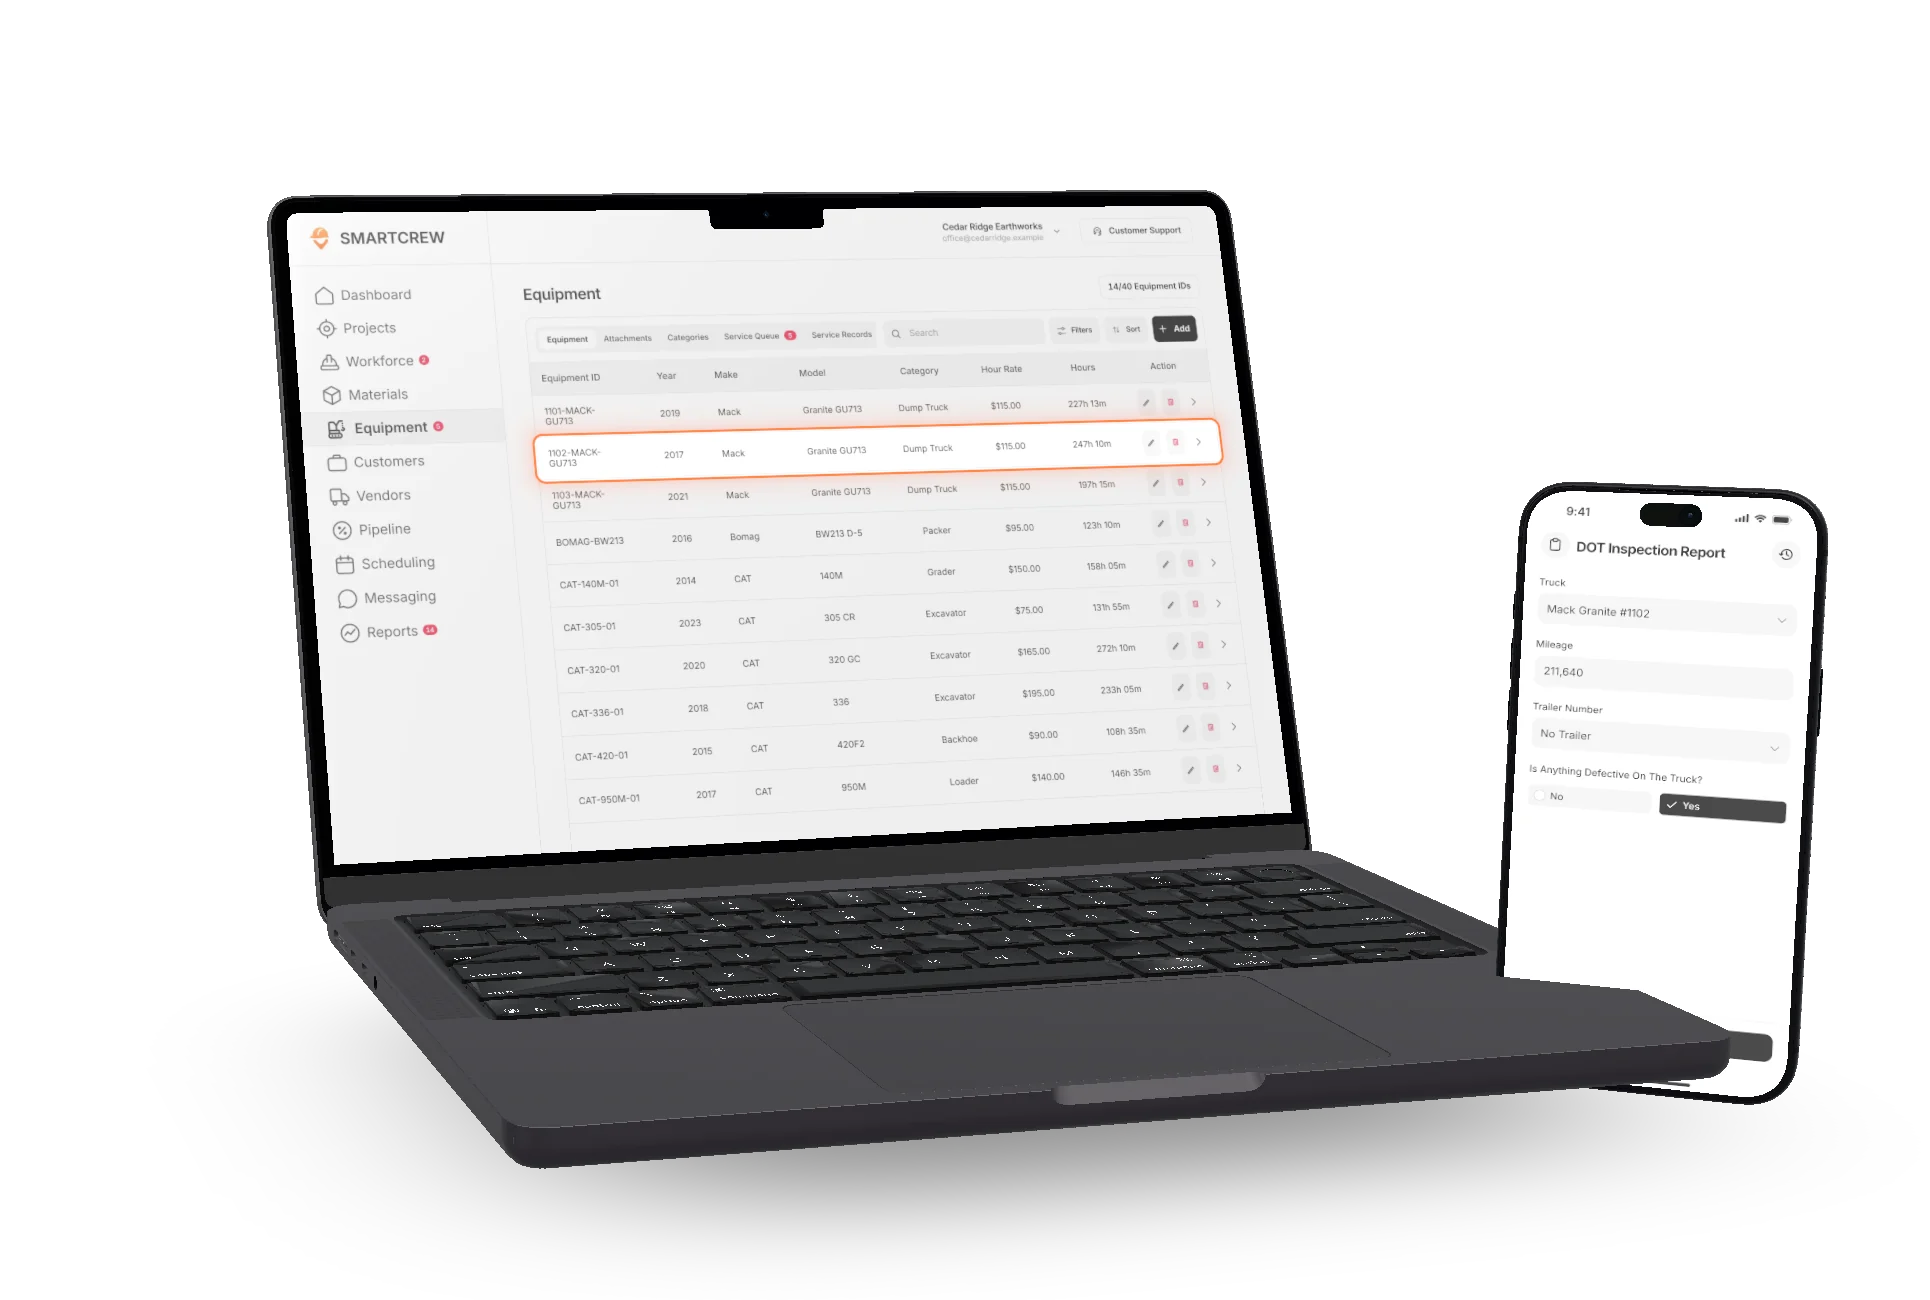
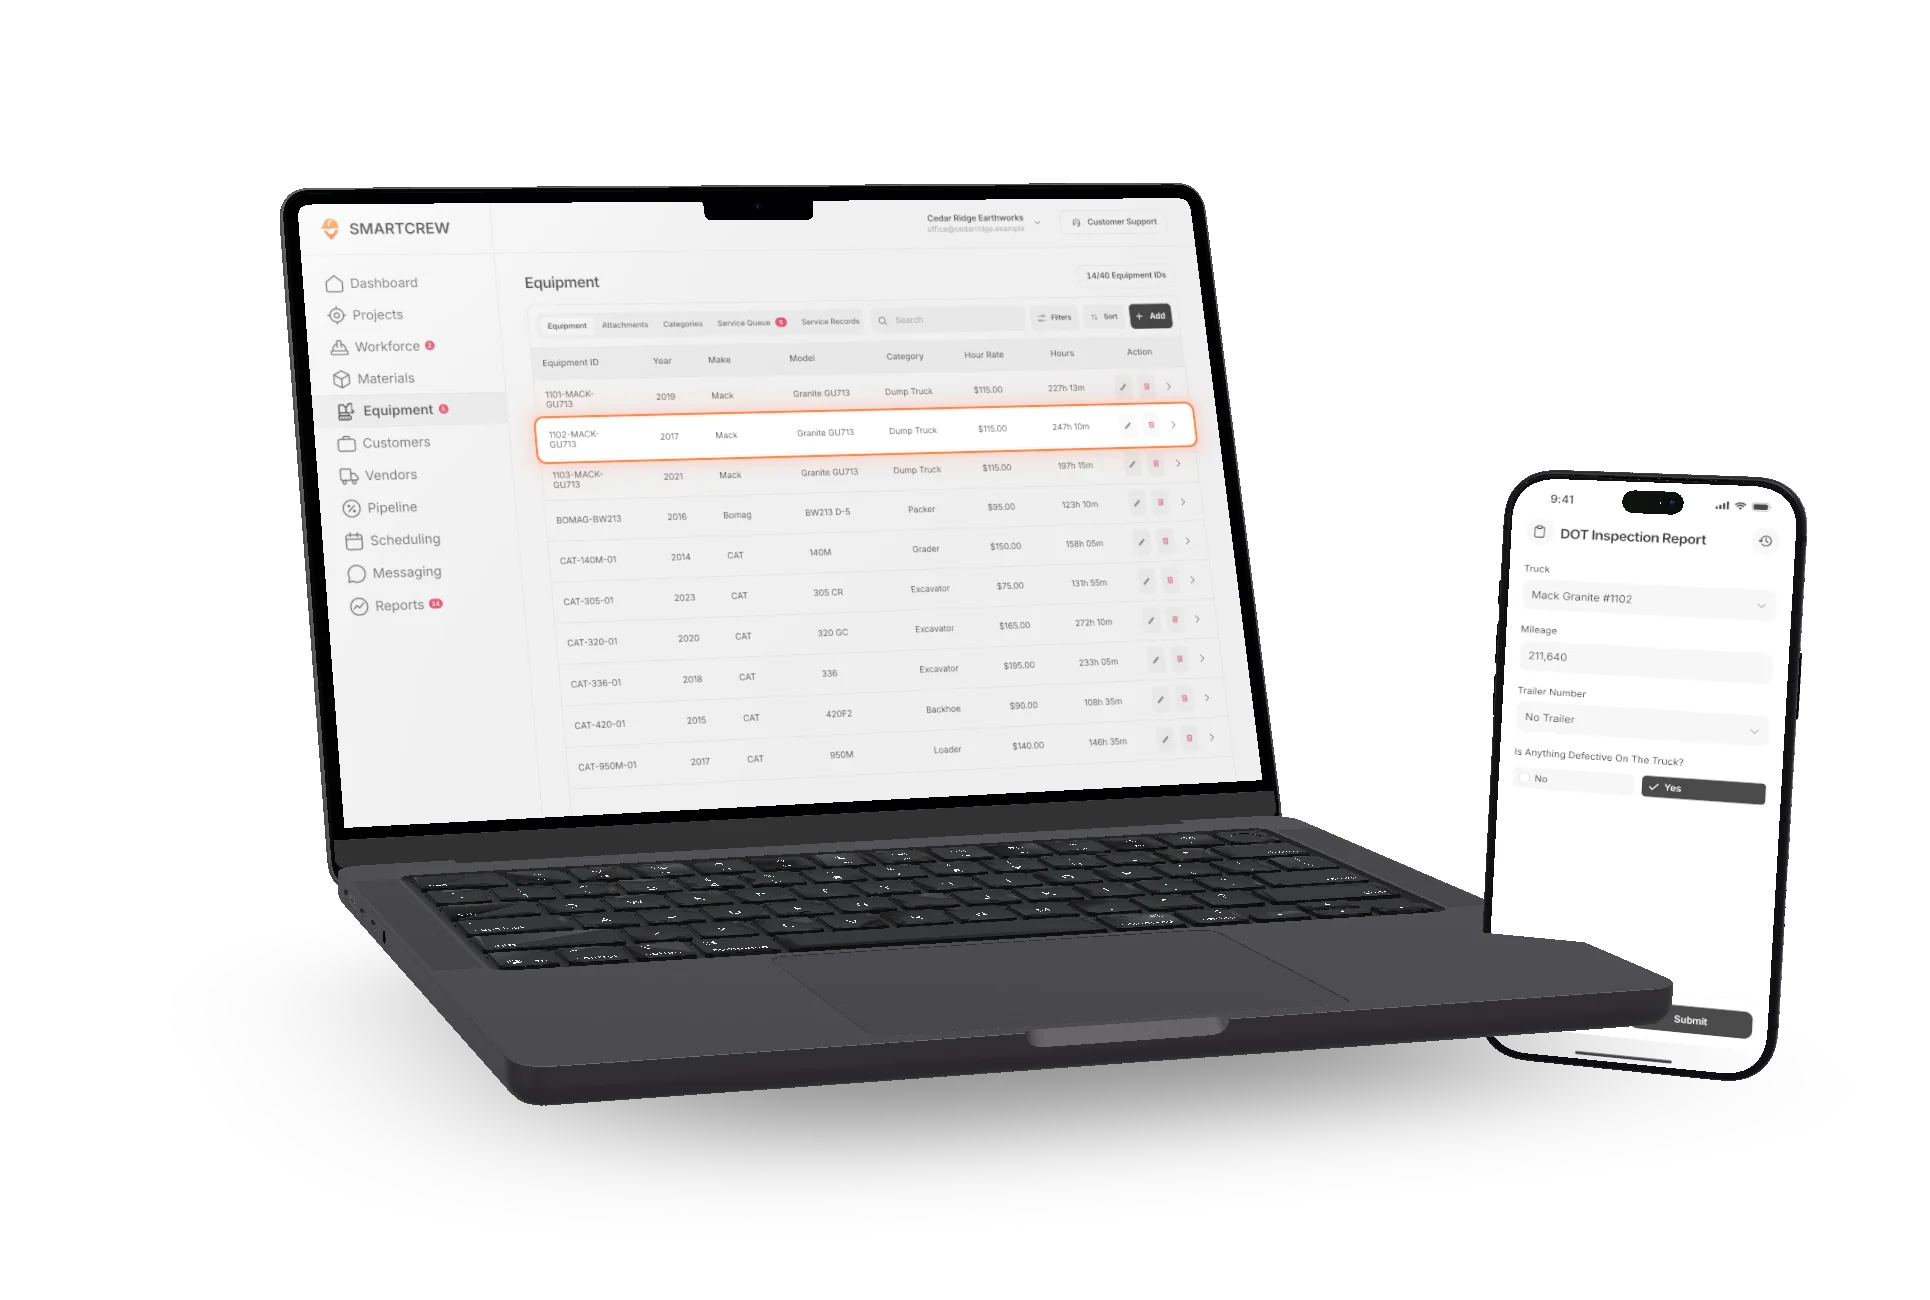
SmartCrew v2: the One Day engine, intro, hero, popup and booking page
- Intro painted by HTML/CSS/SVG before JS: contour map, geofence closing on
  Hwy 9 Culvert, 6:42 AM, then the geofence becomes a window into the hero
- One fixed R3F stage with the real MacBook and iPhone fitted into DOM anchors,
  pose keys on scroll, crossfading screens, highlight rings, the orange pulse
- Hero with live clock-in toast and profit tick; One Day moments 1-2
- Account-style popup with a live workspace preview; /book with Andrew's video
  and an inline, prefilled Cal.com calendar and a booked state
- Header uses the new SVG logo; build:preview (noindex, no watermark)

Claude-Session: https://claude.ai/code/session_012vKKdTCJs2dBCt8DpmkZUC

Changed region(s): [[0.1244, 0.1231, 0.9637, 0.9538], [0.4663, 0.4308, 0.4974, 0.5538]]

diff --git a/smartcrew/src/styles/shell.css b/smartcrew/src/styles/shell.css
@@ -119,13 +119,13 @@ html[data-ground="dark"] .site-header.is-solid {
   margin-right: auto;
 }
 
-.site-logo img {
-  width: 128px;
-  height: auto;
+.site-logo-svg {
+  height: 23px;
+  width: auto;
 }
 
-html[data-ground="dark"] .site-logo img {
-  filter: invert(1) hue-rotate(180deg) brightness(1.4);
+html[data-ground="dark"] .site-logo .logo-word {
+  fill: var(--ink-night);
 }
 
 .site-nav {
@@ -179,8 +179,8 @@ html[data-ground="dark"] .site-nav a:hover {
   .site-header-cta {
     display: none !important;
   }
-  .site-logo img {
-    width: 118px;
+  .site-logo-svg {
+    height: 21px;
   }
 }
 
@@ -201,7 +201,7 @@ html[data-ground="dark"] .site-nav a:hover {
     align-items: center;
     gap: 12px;
     min-height: calc(var(--sticky-h) + env(safe-area-inset-bottom));
-    padding: 8px var(--gutter) calc(8px + env(safe-area-inset-bottom));
+    padding: 8px 14px calc(8px + env(safe-area-inset-bottom)) 16px;
     background: color-mix(in srgb, var(--paper) 94%, transparent);
     -webkit-backdrop-filter: saturate(1.4) blur(14px);
     backdrop-filter: saturate(1.4) blur(14px);
@@ -219,9 +219,14 @@ html[data-ground="dark"] .site-nav a:hover {
     flex-direction: column;
     min-width: 0;
     flex: 1;
-    font-size: 13px;
+    font-size: 12.5px;
     line-height: 1.3;
     color: var(--ink-2);
+    white-space: nowrap;
+  }
+  .sticky-bar-text > * {
+    overflow: hidden;
+    text-overflow: ellipsis;
   }
   .sticky-bar-text strong {
     color: var(--ink);
@@ -230,9 +235,12 @@ html[data-ground="dark"] .site-nav a:hover {
   }
   .sticky-bar-cta.btn {
     --h: 48px;
-    padding: 0 18px;
-    font-size: 15.5px;
+    padding: 0 16px;
+    font-size: 15px;
     border-radius: 12px;
+  }
+  .sticky-bar-cta .btn-arrow {
+    display: none;
   }
 }
 

diff --git a/smartcrew/vite.config.ts b/smartcrew/vite.config.ts
@@ -2,8 +2,8 @@ import { resolve } from "node:path";
 import { defineConfig, type Plugin } from "vite";
 import react from "@vitejs/plugin-react";
 
-// Preview builds (`--mode watermark` and `--mode directions`) carry the watermark and ask search
-// engines not to index.
+// Preview builds (`--mode preview`, `--mode watermark`, `--mode directions`) ask search engines not to
+// index; the watermark build also carries the watermark.
 const noindex: Plugin = {
   name: "noindex",
   transformIndexHtml: (html) => html.replace("</head>", '    <meta name="robots" content="noindex, nofollow" />\n  </head>'),
@@ -11,7 +11,7 @@ const noindex: Plugin = {
 
 export default defineConfig(({ mode }) => ({
   base: "./",
-  plugins: [react(), ...(mode === "watermark" || mode === "directions" ? [noindex] : [])],
+  plugins: [react(), ...(mode === "watermark" || mode === "directions" || mode === "preview" ? [noindex] : [])],
   build: {
     // two pages: the product page, and the "book a call" page the trial form lands on
     rollupOptions: {

diff --git a/smartcrew/index.html b/smartcrew/index.html
@@ -18,7 +18,12 @@
         var d = document.documentElement, K = "sc-intro", seen = false, q = location.search;
         try { seen = sessionStorage.getItem(K) === "1"; sessionStorage.setItem(K, "1"); } catch (e) {}
         if (/[?&]intro=1/.test(q)) seen = false;
-        if (/[?&](intro=0|screens?=?|sandbox=|proto=)/.test(q) || seen || matchMedia("(prefers-reduced-motion: reduce)").matches) { d.className += " no-intro"; return; }
+        if (/[?&](intro=0|screens?=?|sandbox=|proto=)/.test(q) || seen || matchMedia("(prefers-reduced-motion: reduce)").matches) {
+          d.className += " no-intro";
+          var m = document.querySelector('meta[name="theme-color"]');
+          if (m) m.setAttribute("content", "#FBF8F4");
+          return;
+        }
         d.className += " intro-on";
         var I = (window.__intro = { t0: performance.now(), skipped: false, onSkip: null });
         var evs = ["pointerdown", "keydown", "wheel", "touchstart"];

diff --git a/smartcrew/src/site/shell/Header.tsx b/smartcrew/src/site/shell/Header.tsx
@@ -4,7 +4,7 @@
 // bar at the bottom carries the CTA there.
 
 import { useEffect, useState } from "react";
-import logo from "../assets/logo.svg";
+import { Logo } from "../../brand/Logo";
 import { HEADER } from "../../content/copy";
 import { handleAnchorClick, scrollToY } from "../scroll";
 import { Cta } from "../ui/Cta";
@@ -32,7 +32,7 @@ export function Header() {
             scrollToY(0);
           }}
         >
-          <img src={logo} alt="SmartCrew" width={143} height={20} />
+          <Logo className="site-logo-svg" />
         </a>
         <nav className="site-nav" aria-label="Page">
           {HEADER.nav.map((l) => (

diff --git a/smartcrew/src/site/shell/StickyBar.tsx b/smartcrew/src/site/shell/StickyBar.tsx
@@ -3,7 +3,6 @@
 
 import { useEffect, useState } from "react";
 import { STICKY } from "../../content/copy";
-import { onSignup } from "../../signup/contract";
 import { Cta } from "../ui/Cta";
 import { useHeroCtaGone } from "./heroCta";
 
@@ -22,8 +21,6 @@ export function StickyBar() {
     els.forEach((el) => io.observe(el));
     return () => io.disconnect();
   }, []);
-  // step aside while the popup is open (it covers the page anyway)
-  useEffect(() => onSignup(() => setHidden(false)), []);
   const on = gone && !hidden;
   return (
     <div className={`sticky-bar${on ? " is-on" : ""}`} inert={!on}>

diff --git a/smartcrew/src/site/day/poses.ts b/smartcrew/src/site/day/poses.ts
@@ -48,8 +48,8 @@ const SHOTS: Shot[] = [
     iphone: { x: 1.45, y: -0.2, z: 1.1, rx: 3, ry: -20, rz: -2, s: 1.24 },
     macbook: { x: -0.65, y: 0.18, z: -0.7, rx: 14, ry: 26, rz: 0, s: 1 },
     land: {
-      iphone: { x: 1.7, y: -0.25, z: 0.6, rx: 3, ry: -24, rz: -2, s: 1.06 },
-      macbook: { x: -0.3, y: 0.3, z: 0.1, rx: 9, ry: 14, rz: 0, s: 1.1 },
+      iphone: { x: 1.65, y: -0.2, z: 0.6, rx: 3, ry: -24, rz: -2, s: 1.04 },
+      macbook: { x: -0.35, y: 0.38, z: 0.1, rx: 9, ry: 14, rz: 0, s: 1.05 },
     },
   },
 ];
